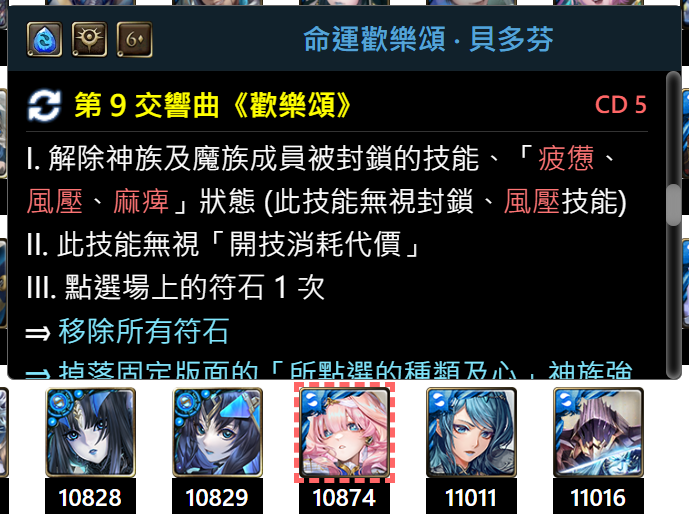
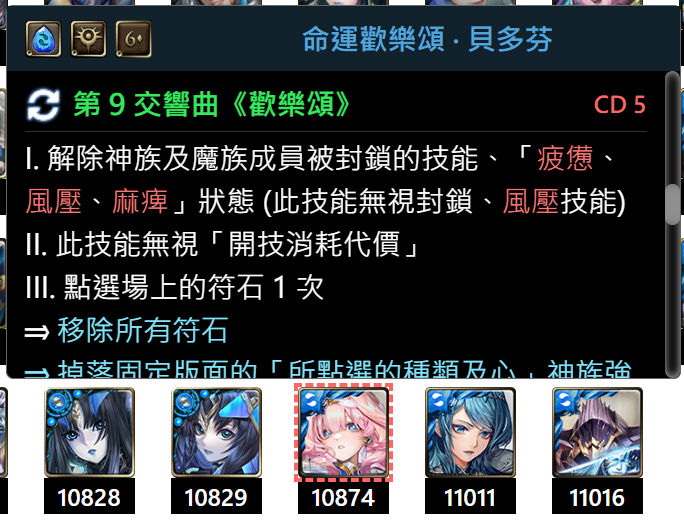
fix style issue

diff --git a/src/styles/colors.scss b/src/styles/colors.scss
@@ -38,6 +38,7 @@ $--popover-border: --popover-border;
 $--popover-skill-name: --popover-skill-name;
 $--popover-skill-name-refine: --popover-skill-name-refine;
 $--popover-skill-name-recall: --popover-skill-name-recall;
+$--popover-skill-name-changed: --popover-skill-name-changed;
 $--popover-skill-charge: --popover-skill-charge;
 $--popover-skill-description: --popover-skill-description;
 $--popover-skill-description-fixed-board-label: --popover-skill-description-fixed-board-label;
@@ -104,6 +105,7 @@ $theme-light: (
     $--popover-skill-name: yellow,
     $--popover-skill-name-refine: orange,
     $--popover-skill-name-recall: #91dff3,
+    $--popover-skill-name-changed: #35e85c,
     $--popover-skill-charge: #ff6666,
     $--popover-skill-description: var(--text-white),
     $--popover-skill-description-fixed-board-label: #82e8ff,
@@ -170,6 +172,7 @@ $theme-dark: (
     $--popover-skill-name: #9a9a00,
     $--popover-skill-name-refine: #cc8300,
     $--popover-skill-name-recall: #70add1,
+    $--popover-skill-name-changed: #1d9b36,
     $--popover-skill-charge: #aa4444,
     $--popover-skill-description: var(--text-white),
     $--popover-skill-description-fixed-board-label: #2ba4bc,

diff --git a/src/shared/ResultRow/ResultImage/style.scss b/src/shared/ResultRow/ResultImage/style.scss
@@ -273,9 +273,11 @@
             }
 
             &-normal,
-            &-combine,
-            &-changed {
+            &-combine {
                 color: var(--popover-skill-name);
+            }
+            &-changed {
+                color: var(--popover-skill-name-changed);
             }
             &-refine,
             &-refine-changed {
@@ -355,6 +357,10 @@
             }
             .desc-multiple-label {
                 color: var(--popover-skill-description-multiple-label);
+            }
+            .desc-linking-label {
+                color: var(--popover-skill-description-multiple-label);
+                cursor: pointer;
             }
             .desc-anno-label {
                 opacity: 0.55;

diff --git a/src/utilities/utils.tsx b/src/utilities/utils.tsx
@@ -396,7 +396,7 @@ export const descriptionTranslator = (
               )
               .replace(
                   /【連攜魔導式】/g,
-                  `<span class='desc-note-label-0 desc-multiple-label'>【連攜魔導式】</span>`
+                  `<span class='desc-note-label-0 desc-linking-label'>【連攜魔導式】</span>`
               )
               .replace(
                   /亢奮(狀態)?/g,
